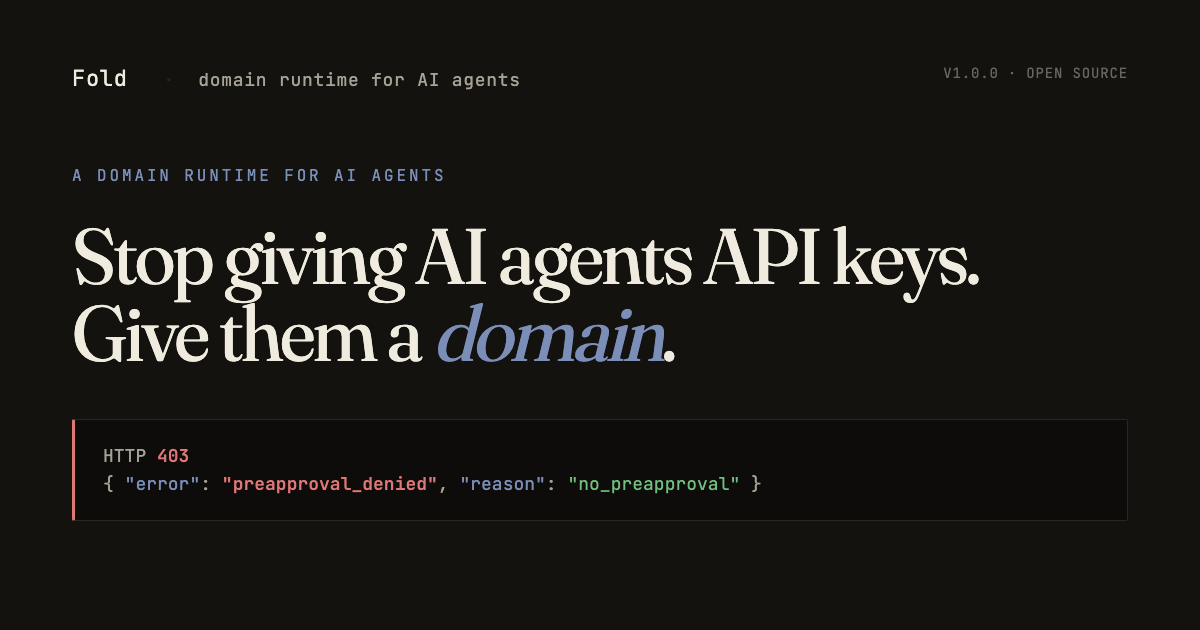
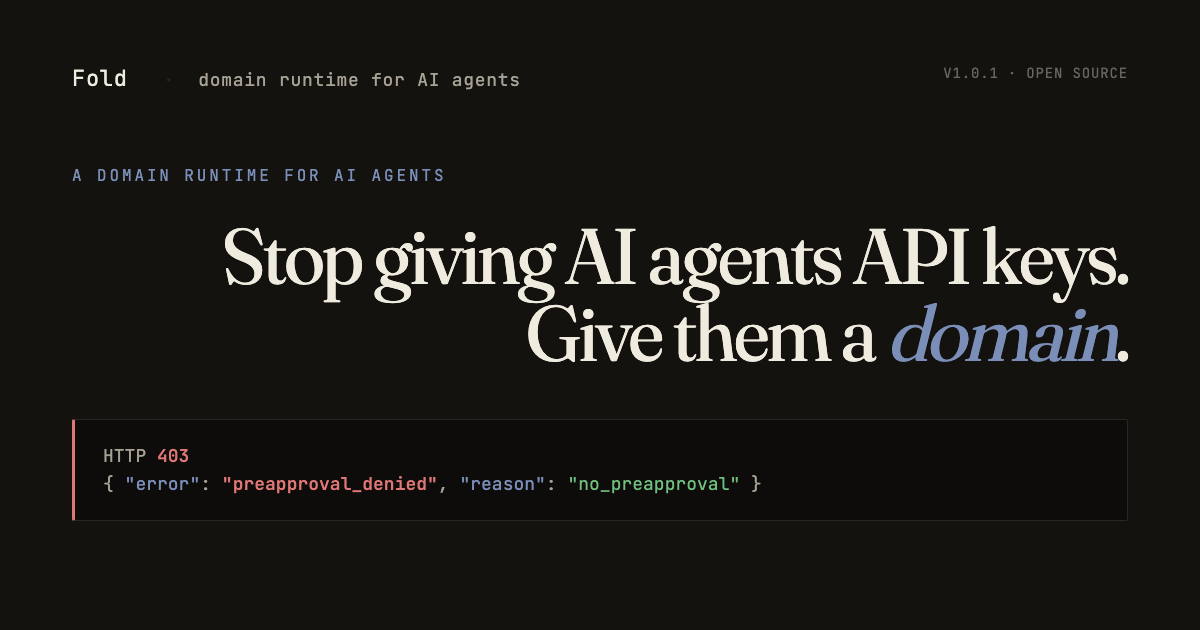
og: правый aliгн обеих строк h1 + v1.0.1
X-banner overlap'ом аватара перекрывал нижне-левый угол
("Gi" в "Give them a domain"). Сместил весь h1 на text-align: right
— нижне-левая зона свободна под кружок avatar'а на X-profile.

Версия в meta строке поднята до 1.0.1 (соответствие npm latest).

Changed region(s): [[0.0617, 0.3619, 0.9558, 0.573]]

diff --git a/og-image.html b/og-image.html
@@ -71,6 +71,7 @@
     color: #f0ebdf;
     font-variation-settings: '"opsz" 144';
     margin: 0;
+    text-align: right;
   }
   h1 em {
     color: #7a8eb8;
@@ -116,7 +117,7 @@
       <span class="dot">·</span>
       domain runtime for AI agents
     </div>
-    <div class="meta">v1.0.0 · open source</div>
+    <div class="meta">v1.0.1 · open source</div>
   </div>
 
   <div class="body">
